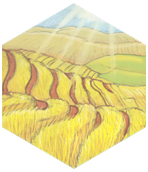
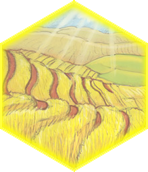
Adjusted robber selection to grey/highlight as needed

Changed region(s): [[0.0, 0.0, 1.0, 1.0]]

diff --git a/public/js/game/client.js b/public/js/game/client.js
@@ -180,12 +180,11 @@ $(document)
 
       //  Update drag and drop
       setupDragDrop();
-      // ditch the highlights - if the turn finished without the player
-      // moving the knight the hightlights stick around
-      let tiles = document.getElementsByClassName('hex');
-      for (let i=0; i<tiles.length; i++) {
-        tiles[i].classList.remove('hex_highlight');
-      }
+
+      // ditch the greyed out tiles
+      $(".hex").each(function() {
+        $(this).removeClass('hex_dim');
+      });
     });
 
     //  During the setup phase, each player waits until their
@@ -369,9 +368,9 @@ $(document)
         let allowed = data.player.actions[0].action_data;
         for (var i = 0; i < allowed.length; i++) {
             let id = "x"+allowed[i][0]+"y"+allowed[i][1];
-            console.log("Attempting to add highlight to", id);
+            console.log("Attempting to grey out ", id);
             var elem = document.getElementById(id);
-            elem.classList.add("hex_highlight"); //classList.remove too
+            elem.classList.add("hex_dim"); //classList.remove too
         }
       } else if (data.data_type === 'robbed_player') {
         // {player_id: of the person robbed, resource: resource gained}
@@ -399,12 +398,12 @@ $(document)
     });
 
     // Send the selected tile location to the server for knight placement
-    $doc.on('click', '.hex_highlight ', function(e) {
+    $doc.on('click', '.hex_dim ', function(e) {
       e.preventDefault();
       let location = $(this).attr('id');
       location = location.match(/(\d+)/g);
       console.log("Selected", location);
-      // TODO: remove hex_highlight class for all tiles after
+      
       var action = new Action();
       action.action_type = 'move_knight_to';
       action.action_data = location;
@@ -417,7 +416,7 @@ $(document)
 
       let tiles = document.getElementsByClassName('hex');
       for (let i=0; i<tiles.length; i++) {
-        tiles[i].classList.remove('hex_highlight');
+        tiles[i].classList.remove('hex_dim');
       }
     });
 

diff --git a/public/css/catan.css b/public/css/catan.css
@@ -623,38 +623,52 @@ body {
 .ore {
     background-image:url(../images/hex_ore.png);
 }
-.ore.hex_highlight {
+.ore.hex_dim:hover, .ore.hex_highlight {
     background-image:url(../images/hex_ore_highlight.png);
+    opacity: 1.0;
 }
 .grain {
     background-image:url(../images/hex_grain.png);
 }
-.grain.hex_highlight {
+.grain.hex_dim:hover, .grain.hex_highlight {
     background-image:url(../images/hex_grain_highlight.png);
+    opacity: 1.0;
 }
 .sheep {
     background-image:url(../images/hex_sheep.png);
 }
-.sheep.hex_highlight {
+.sheep.hex_dim:hover, .sheep.hex_highlight {
     background-image:url(../images/hex_sheep_highlight.png);
+    opacity: 1.0;
 }
 .lumber {
     background-image:url(../images/hex_lumber.png);
 }
-.lumber.hex_highlight {
+.lumber.hex_dim:hover, .lumber.hex_highlight {
     background-image:url(../images/hex_lumber_highlight.png);
+    opacity: 1.0;
 }
 .brick {
     background-image:url(../images/hex_brick.png);
 }
-.brick.hex_highlight {
+.brick.hex_dim:hover, .brick.hex_highlight {
     background-image:url(../images/hex_brick_highlight.png);
+    opacity: 1.0;
 }
 .desert {
     background-image:url(../images/hex_desert.png);
 }
-.desert.hex_highlight {
+.desert.hex_dim:hover, .desert.hex_highlight {
     background-image:url(../images/hex_desert_highlight.png);
+    opacity: 1.0;
+}
+
+.sheep.hex_dim:hover, .ore.hex_dim:hover, .lumber.hex_dim:hover, .brick.hex_dim:hover, .grain.hex_dim:hover, .desert.hex_dim:hover {
+    cursor: pointer;
+}
+
+.hex_dim {
+    opacity: 0.6;
 }
 
 .robber {
